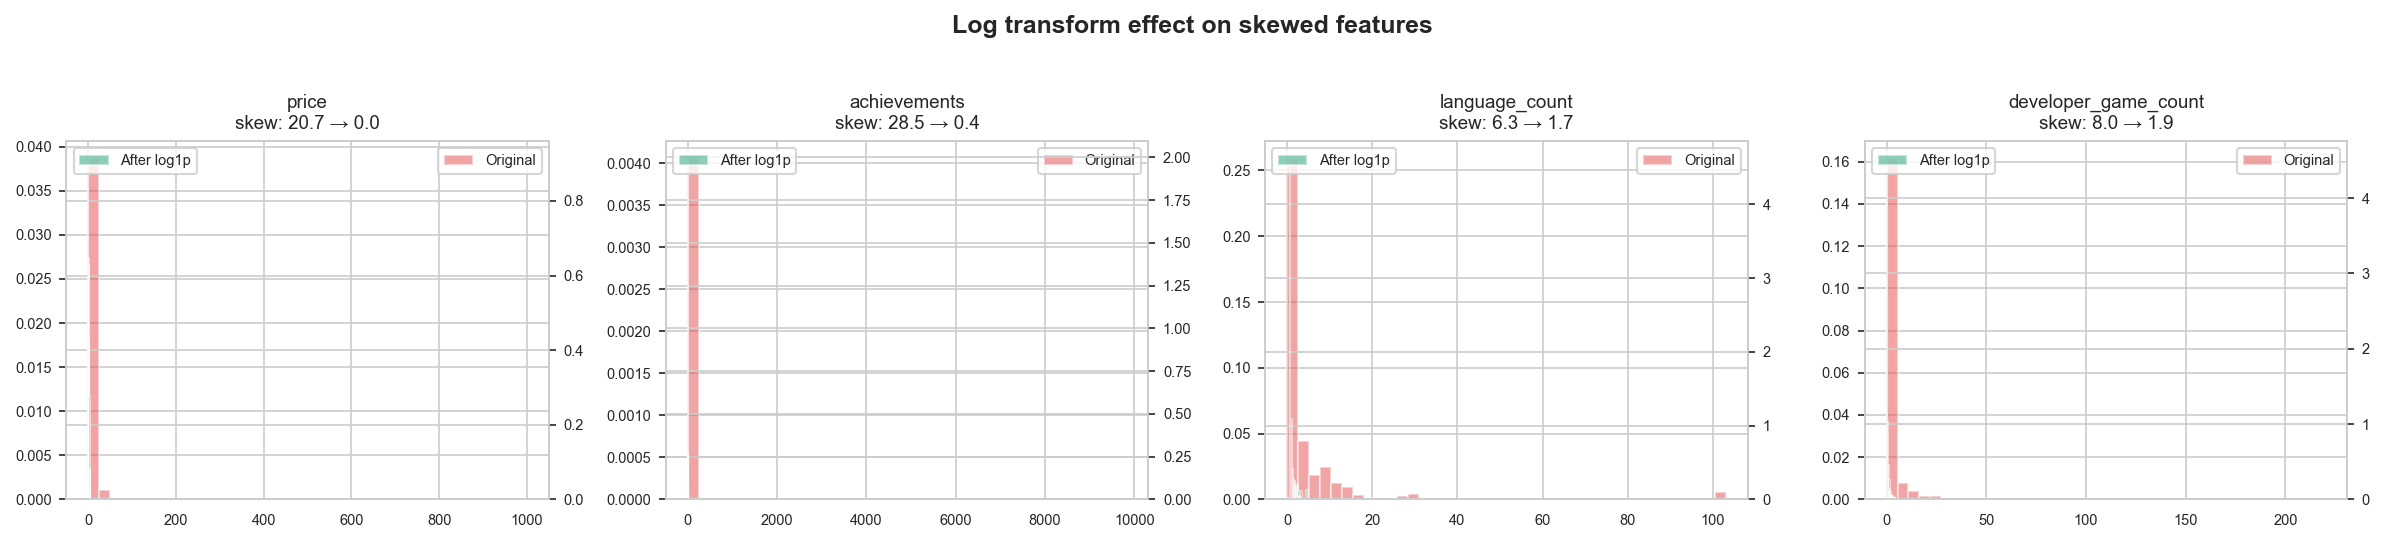
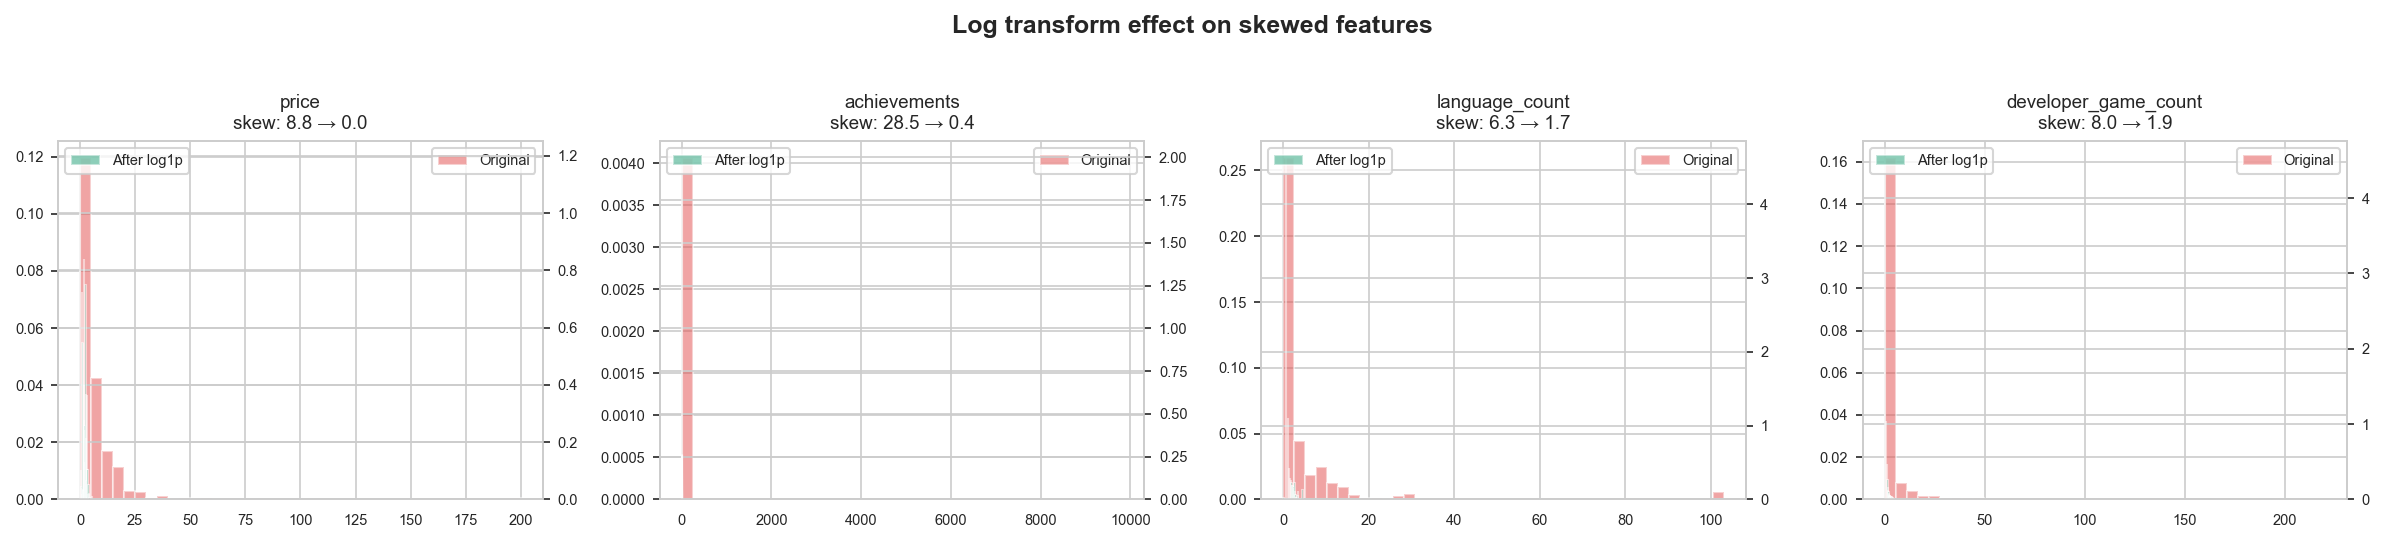
EDA improvements

diff --git a/EDA/steam_eda_feature_engineering.py b/EDA/steam_eda_feature_engineering.py
@@ -106,6 +106,11 @@ def engineer_features(df: pd.DataFrame) -> pd.DataFrame:
 
     # Price
     df["price"] = pd.to_numeric(df["price"], errors="coerce").fillna(0)
+    # Cap extreme prices (games > $200 are joke listings or asset flips)
+    n_extreme = int((df["price"] > 200).sum())
+    if n_extreme > 0:
+        print(f"    Capping {n_extreme} games with price > $200")
+        df["price"] = df["price"].clip(upper=200)
     df["is_free"] = (df["price"] == 0).astype(int)
     bins = [-0.01, 0, 4.99, 14.99, 29.99, np.inf]
     df["price_tier"] = pd.cut(df["price"], bins=bins, labels=[0,1,2,3,4]).astype(float).fillna(0).astype(int)
@@ -116,6 +121,7 @@ def engineer_features(df: pd.DataFrame) -> pd.DataFrame:
     for g in top_genres:
         df["genre_" + g.lower().replace(" ", "_").replace("-", "_")] = df["_gl"].apply(lambda lst: int(g in lst))
     df["genre_count"] = df["_gl"].apply(len)
+    df["has_genres"] = (df["genre_count"] > 0).astype(int)
 
     # Categories
     df["_cl"] = df["categories"].apply(lambda x: safe_parse(x, []))
@@ -123,6 +129,7 @@ def engineer_features(df: pd.DataFrame) -> pd.DataFrame:
     for c in top_cats:
         df["cat_" + c.lower().replace(" ","_").replace("-","_").replace("'","")] = df["_cl"].apply(lambda lst: int(c in lst))
     df["category_count"] = df["_cl"].apply(len)
+    df["has_categories"] = (df["category_count"] > 0).astype(int)
 
     # Tags
     df["_td"] = df["tags"].apply(lambda x: safe_parse(x, {}))
@@ -136,6 +143,11 @@ def engineer_features(df: pd.DataFrame) -> pd.DataFrame:
         df["tag_" + tag.lower().replace(" ","_").replace("-","_").replace("'","")] = \
             df["_td"].apply(lambda d: int(tag in d) if isinstance(d, dict) else 0)
     df["tag_count"] = df["_td"].apply(lambda d: len(d) if isinstance(d, dict) else 0)
+    df["has_tags"] = (df["tag_count"] > 0).astype(int)
+
+    # Achievements
+    df["achievements"] = pd.to_numeric(df.get("achievements", 0), errors="coerce").fillna(0)
+    df["has_achievements"] = (df["achievements"] > 0).astype(int)
 
     # Description & website
     df["description_length"] = df["short_description"].fillna("").apply(len)
@@ -767,17 +779,41 @@ Only {balance['pct_success']:.1f}% of games are successful. The imbalance ratio 
 |---|---|---|
 | Drop `years_since_release` (redundant with `release_year`, corr=-1.0) | Yes | Redundancy is always wrong, regardless of model type |
 | Fill NaN values in numeric features with median | Yes | All models need complete data |
+| Add `has_tags` flag (18.8% of games have 0 tags) | Yes | Lets models distinguish "no tag data" from "tags present but not matching top 20" |
+| Add `has_achievements` flag (45.8% of games have 0) | Yes | Lets models separate "no achievements" signal from "how many achievements" |
+| Add `has_genres`, `has_categories` flags | Yes | Same pattern for sparse categorical coverage |
+| Cap price at $200 (8 extreme outliers) | Yes | These are joke/asset-flip listings, not real games. Safe for all models. |
 | Log-transform skewed features (achievements, developer_game_count) | No — deferred | Tree models perform worse with log transforms. Applied per-model in training. |
 | Cap outliers at 99th percentile | No — deferred | Only needed for MLP. Trees are robust to outliers. |
 | StandardScaler normalization | No — deferred | Only needed for MLP. Trees are invariant to scaling. |
 | Drop low-separability features (tag_count, description_length) | No — deferred | Let SHAP confirm after training rather than pre-judging. |
 
 ## Issues and challenges
-1. Class imbalance ({balance['pct_success']:.1f}% positive) is the dominant challenge.
-2. Sentiment-based success metric does not capture commercial revenue directly.
-3. Survivorship bias — delisted games are absent.
-4. Review bombing affects competitive multiplayer games disproportionately.
-5. Feature sparsity in one-hot genre/tag columns for rare categories.
+
+### 1. Class imbalance ({balance['pct_success']:.1f}% positive class)
+Only about 1 in 6 games meets our success threshold. If a model simply predicted "not successful" for every game, it would achieve ~84% accuracy while being completely useless. This is the most significant technical challenge in the project because it affects every model we train.
+
+**How we address it:** We use `class_weight='balanced'` in tree-based models, which penalizes misclassifying the minority class more heavily. We evaluate SMOTE oversampling on training folds only (never on validation data, which would leak synthetic information). Most importantly, we use ROC-AUC as our primary metric instead of accuracy, because ROC-AUC measures how well the model ranks games regardless of the class distribution.
+
+### 2. Success metric captures sentiment, not revenue
+Our definition of success is based on review sentiment (80% positive ratio with at least 50 reviews). This means a game can be commercially profitable but labeled "unsuccessful" if it has polarized reviews — for example, PUBG has over 50 million estimated owners but only 59% positive reviews due to its competitive community. Conversely, a niche indie game with 60 reviews that are 95% positive is labeled "successful" despite minimal commercial impact.
+
+**How we address it:** We validate our sentiment-based label against commercial metrics (estimated owners, peak concurrent users) in the EDA using `eda_` prefixed columns. The correlation analysis shows whether our label aligns with commercial outcomes. We document this as a known scope limitation: our model predicts community reception, which is one meaningful dimension of success but not the only one.
+
+### 3. Survivorship bias
+The dataset only contains games currently listed on Steam. Games that were delisted, removed, or shut down — which are disproportionately failures — are absent. This means our dataset underrepresents the "unsuccessful" category in ways we cannot measure, and our model may overestimate success rates for the broader population of games.
+
+**How we address it:** This is an inherent limitation of the data source that cannot be fixed without access to historical Steam records. We document it transparently and note that model predictions apply to "games that remain on Steam" rather than all games ever released.
+
+### 4. Review bombing
+Competitive multiplayer games (PUBG, Helldivers 2, Destiny 2) and games involved in controversies receive coordinated negative review campaigns that depress their positive ratio independently of game quality. These campaigns can shift a game from "successful" to "unsuccessful" under our metric based on community politics rather than the game itself.
+
+**How we address it:** We do not filter or adjust for review bombing because any detection method would introduce subjective judgment about which negative reviews are "legitimate." Instead, we acknowledge that our model learns from community sentiment as-is, including its distortions. The `pct_pos_recent` field (available in the raw data but excluded from modeling) could be used in future work to detect sentiment shifts.
+
+### 5. Feature sparsity in one-hot encoded columns
+Our top-15 genre, top-12 category, and top-20 tag binary features cover the majority of games, but rare combinations create sparse rows where most binary columns are zero. Games with 0 tags (16,872 games, 18.8%) have all 20 tag columns set to zero, which is indistinguishable from "has tags but none match our top 20" without the `has_tags` flag we added.
+
+**How we address it:** We added `has_tags`, `has_achievements`, `has_genres`, and `has_categories` binary flags to let models distinguish between "data not present" and "data present but not matching encoded categories." For the MLP, sparse binary features may add noise — we will monitor SHAP importance and consider dropping low-signal one-hot columns if they hurt performance.
 
 ## Tasks remaining
 1. Model training: RF → XGBoost/LightGBM → MLP → Stacking Ensemble
@@ -812,13 +848,15 @@ def assemble_output(df):
     # Fix: drop years_since_release (redundant with release_year, corr = -1.0)
     # Keeping release_year because it's more interpretable
     model_base = [
-        "price","is_free","price_tier","required_age","achievements",
+        "price","is_free","price_tier","required_age","achievements","has_achievements",
         "platform_count","language_count","audio_language_count",
         "release_year","release_month","release_day_of_week","release_quarter",
         "released_in_sale_month",
         "description_length","has_website",
         "developer_historical_success","publisher_historical_success",
-        "developer_game_count","genre_count","category_count","tag_count",
+        "developer_game_count",
+        "genre_count","has_genres","category_count","has_categories",
+        "tag_count","has_tags",
     ]
     dynamic = sorted(c for c in df.columns
                      if c.startswith(("genre_","cat_","tag_")) and c not in model_base)

diff --git a/EDA/eda_insights_report.md b/EDA/eda_insights_report.md
@@ -3,7 +3,7 @@
 ## Dataset summary
 - Total games: 89,618
 - Successful: 14,617 (16.3%) | Unsuccessful: 75,001 (83.7%)
-- Model features: 68 | EDA reference: 9
+- Model features: 72 | EDA reference: 9
 - Class imbalance ratio: 5.1:1
 
 ## Charts produced
@@ -31,7 +31,7 @@ Only 16.3% of games are successful. The imbalance ratio is 5.1:1.
 | Feature | Skewness | Needs log transform? |
 |---|---:|---|
 | achievements | 28.46 | Yes — use log1p |
-| price | 20.72 | Yes — use log1p |
+| price | 8.78 | Yes — use log1p |
 | audio_language_count | 8.70 | Yes — use log1p |
 | developer_game_count | 8.03 | Yes — use log1p |
 | language_count | 6.26 | Yes — use log1p |
@@ -50,7 +50,7 @@ Only 16.3% of games are successful. The imbalance ratio is 5.1:1.
 | Tag Count | 10.30 | 16.16 | 0.769 | Strong |
 | Has Website | 0.42 | 0.64 | 0.435 | Strong |
 | Platform Count | 1.29 | 1.54 | 0.385 | Strong |
-| Price | 6.59 | 10.98 | 0.331 | Strong |
+| Price | 6.56 | 10.97 | 0.373 | Strong |
 | Description Length | 193.75 | 205.55 | 0.152 | Moderate |
 | Achievements | 18.06 | 33.33 | 0.093 | Weak |
 | Genre Count | 2.90 | 2.77 | 0.092 | Weak |
@@ -78,7 +78,7 @@ Only 16.3% of games are successful. The imbalance ratio is 5.1:1.
 | developer_game_count | 16,592 | 18.5% | 8.0 | balanced | log1p |
 | language_count | 13,281 | 14.8% | 6.3 | successful | log1p |
 | achievements | 5,636 | 6.3% | 28.5 | successful | log1p |
-| price | 4,146 | 4.6% | 20.7 | successful | log1p |
+| price | 4,146 | 4.6% | 8.8 | successful | log1p |
 | description_length | 0 | 0.0% | -0.4 | balanced | none |
 
 **Signal bias** indicates whether outliers are disproportionately in one class. If biased toward "successful," removing outliers would destroy predictive signal. Capping preserves the direction while limiting magnitude.
@@ -124,7 +124,7 @@ Early years avg success rate: 36.7%, Late years: 14.5%, Drift: -22.2%
 | Games with 0 categories | 876 |
 | Games with 0 tags | 16,872 |
 | Games with platform_count=0 | 0 |
-| Games with price > $200 | 8 |
+| Games with price > $200 | 0 |
 | Games with 0 achievements | 41,090 |
 | Games with no release date | 0 |
 | Games with description_length=0 | 120 |
@@ -159,17 +159,41 @@ Early years avg success rate: 36.7%, Late years: 14.5%, Drift: -22.2%
 |---|---|---|
 | Drop `years_since_release` (redundant with `release_year`, corr=-1.0) | Yes | Redundancy is always wrong, regardless of model type |
 | Fill NaN values in numeric features with median | Yes | All models need complete data |
+| Add `has_tags` flag (18.8% of games have 0 tags) | Yes | Lets models distinguish "no tag data" from "tags present but not matching top 20" |
+| Add `has_achievements` flag (45.8% of games have 0) | Yes | Lets models separate "no achievements" signal from "how many achievements" |
+| Add `has_genres`, `has_categories` flags | Yes | Same pattern for sparse categorical coverage |
+| Cap price at $200 (8 extreme outliers) | Yes | These are joke/asset-flip listings, not real games. Safe for all models. |
 | Log-transform skewed features (achievements, developer_game_count) | No — deferred | Tree models perform worse with log transforms. Applied per-model in training. |
 | Cap outliers at 99th percentile | No — deferred | Only needed for MLP. Trees are robust to outliers. |
 | StandardScaler normalization | No — deferred | Only needed for MLP. Trees are invariant to scaling. |
 | Drop low-separability features (tag_count, description_length) | No — deferred | Let SHAP confirm after training rather than pre-judging. |
 
 ## Issues and challenges
-1. Class imbalance (16.3% positive) is the dominant challenge.
-2. Sentiment-based success metric does not capture commercial revenue directly.
-3. Survivorship bias — delisted games are absent.
-4. Review bombing affects competitive multiplayer games disproportionately.
-5. Feature sparsity in one-hot genre/tag columns for rare categories.
+
+### 1. Class imbalance (16.3% positive class)
+Only about 1 in 6 games meets our success threshold. If a model simply predicted "not successful" for every game, it would achieve ~84% accuracy while being completely useless. This is the most significant technical challenge in the project because it affects every model we train.
+
+**How we address it:** We use `class_weight='balanced'` in tree-based models, which penalizes misclassifying the minority class more heavily. We evaluate SMOTE oversampling on training folds only (never on validation data, which would leak synthetic information). Most importantly, we use ROC-AUC as our primary metric instead of accuracy, because ROC-AUC measures how well the model ranks games regardless of the class distribution.
+
+### 2. Success metric captures sentiment, not revenue
+Our definition of success is based on review sentiment (80% positive ratio with at least 50 reviews). This means a game can be commercially profitable but labeled "unsuccessful" if it has polarized reviews — for example, PUBG has over 50 million estimated owners but only 59% positive reviews due to its competitive community. Conversely, a niche indie game with 60 reviews that are 95% positive is labeled "successful" despite minimal commercial impact.
+
+**How we address it:** We validate our sentiment-based label against commercial metrics (estimated owners, peak concurrent users) in the EDA using `eda_` prefixed columns. The correlation analysis shows whether our label aligns with commercial outcomes. We document this as a known scope limitation: our model predicts community reception, which is one meaningful dimension of success but not the only one.
+
+### 3. Survivorship bias
+The dataset only contains games currently listed on Steam. Games that were delisted, removed, or shut down — which are disproportionately failures — are absent. This means our dataset underrepresents the "unsuccessful" category in ways we cannot measure, and our model may overestimate success rates for the broader population of games.
+
+**How we address it:** This is an inherent limitation of the data source that cannot be fixed without access to historical Steam records. We document it transparently and note that model predictions apply to "games that remain on Steam" rather than all games ever released.
+
+### 4. Review bombing
+Competitive multiplayer games (PUBG, Helldivers 2, Destiny 2) and games involved in controversies receive coordinated negative review campaigns that depress their positive ratio independently of game quality. These campaigns can shift a game from "successful" to "unsuccessful" under our metric based on community politics rather than the game itself.
+
+**How we address it:** We do not filter or adjust for review bombing because any detection method would introduce subjective judgment about which negative reviews are "legitimate." Instead, we acknowledge that our model learns from community sentiment as-is, including its distortions. The `pct_pos_recent` field (available in the raw data but excluded from modeling) could be used in future work to detect sentiment shifts.
+
+### 5. Feature sparsity in one-hot encoded columns
+Our top-15 genre, top-12 category, and top-20 tag binary features cover the majority of games, but rare combinations create sparse rows where most binary columns are zero. Games with 0 tags (16,872 games, 18.8%) have all 20 tag columns set to zero, which is indistinguishable from "has tags but none match our top 20" without the `has_tags` flag we added.
+
+**How we address it:** We added `has_tags`, `has_achievements`, `has_genres`, and `has_categories` binary flags to let models distinguish between "data not present" and "data present but not matching encoded categories." For the MLP, sparse binary features may add noise — we will monitor SHAP importance and consider dropping low-signal one-hot columns if they hurt performance.
 
 ## Tasks remaining
 1. Model training: RF → XGBoost/LightGBM → MLP → Stacking Ensemble
